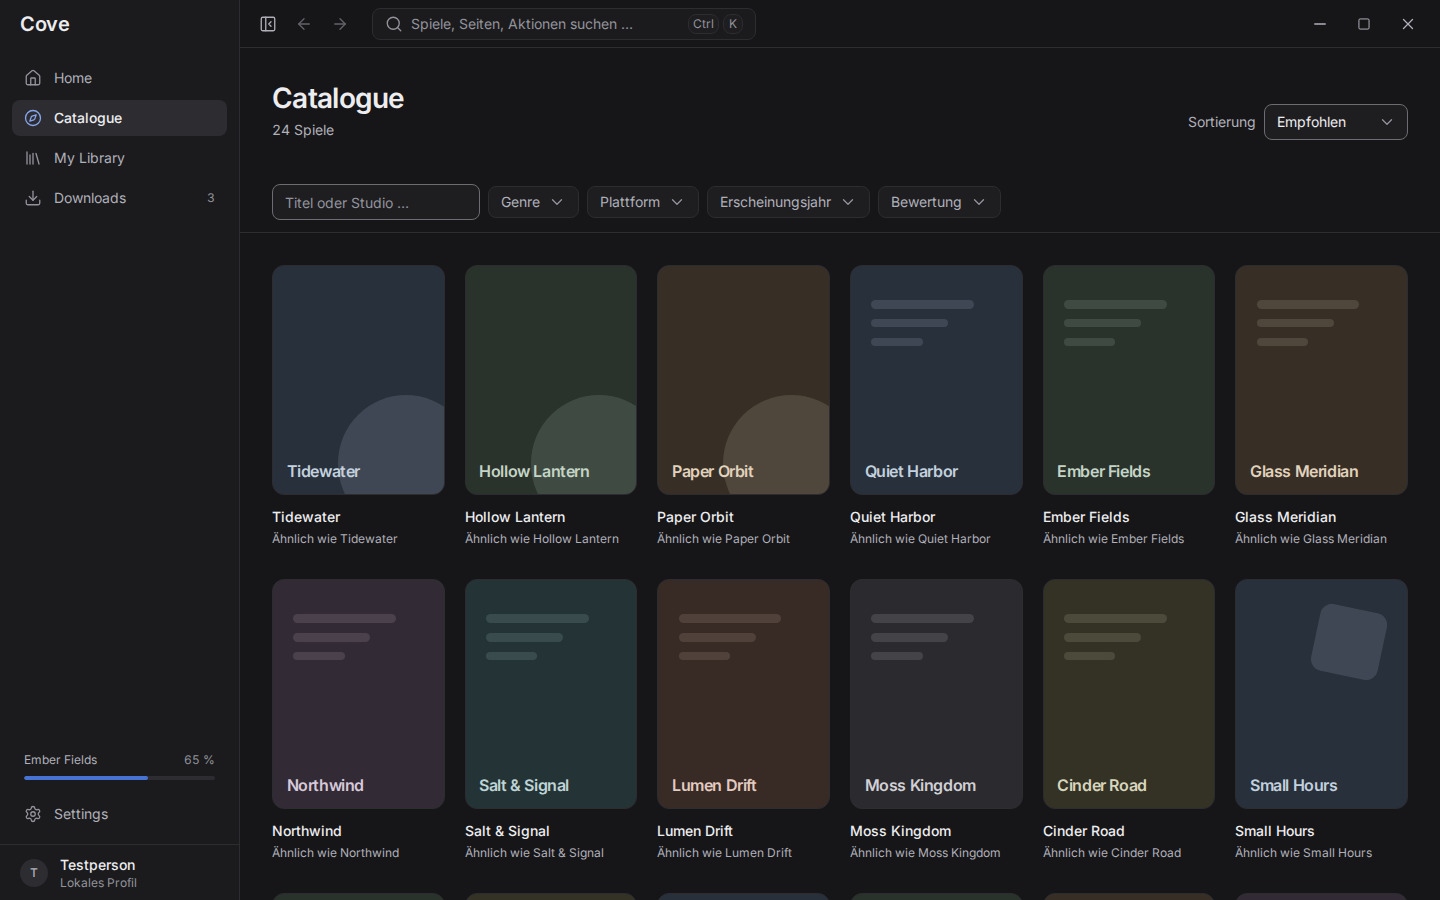
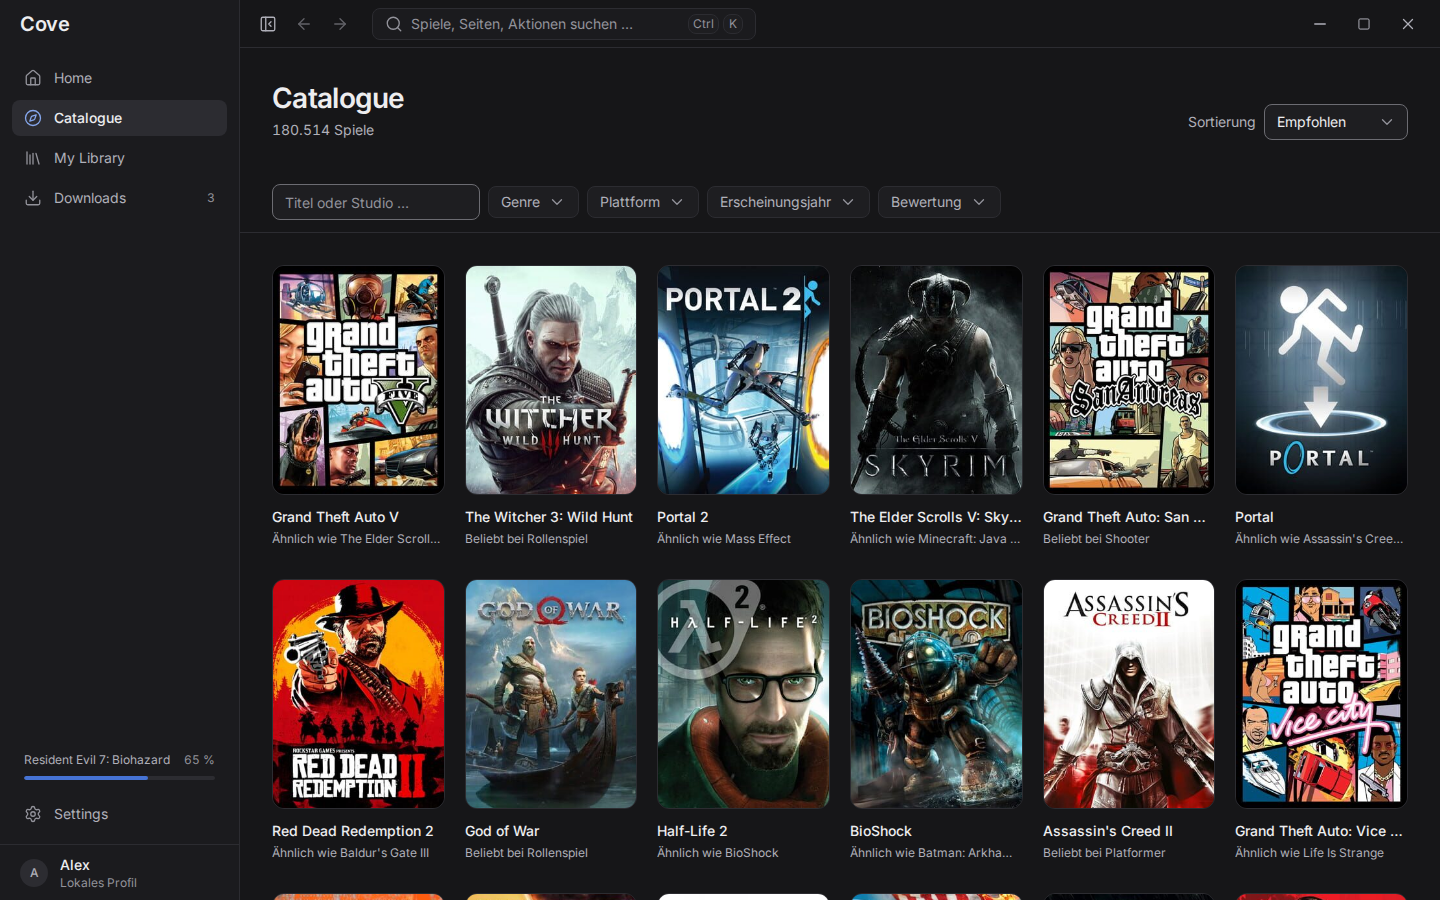
README screenshots with real games; fix cover width for real images
The detail-page cover and download thumbnails were stretched to full width
whenever a real image loaded (GameCover always added w-full to <img>).

Claude-Session: https://claude.ai/code/session_0196WT1rnmQuyssi7v5ZkskX

diff --git a/apps/desktop/src/test/e2e.ts b/apps/desktop/src/test/e2e.ts
@@ -8,7 +8,8 @@
  *
  * URL parameters: `?games=2500` seeds a large library, `?theme=dark` forces dark mode.
  */
-import type { CoveEvents, DownloadItem, Genre, LibraryItem, StoreSource } from "@cove/shared";
+import type { CoveEvents, DownloadItem, Game, Genre, LibraryItem, Recommendation, StoreSource } from "@cove/shared";
+import { GENRE_LABELS } from "../lib/labels.ts";
 import { usePreferences } from "../stores/preferences.ts";
 import { emitCoreEvent, fakeDownload, fakeGame, fakeItem, installFakeCore, FAKE_CATALOG } from "./fakeCore.ts";
 
@@ -47,11 +48,64 @@ function demoItem(index: number): LibraryItem {
   return item;
 }
 
+/**
+ * Real catalogue data for the README screenshots (`e2e/screenshots.e2e.ts` fetches it
+ * from the Cove proxy and injects it as `window.__coveDemo`). Without it the tests use
+ * the invented titles above, so they never depend on the network.
+ */
+interface Demo {
+  library: Game[];
+  catalog: Game[];
+  total: number;
+}
+const demo = (window as unknown as { __coveDemo?: Demo }).__coveDemo;
+
+/** Deterministic pseudo-random number 0..1 per game and purpose. */
+function rand(id: string, salt: number): number {
+  let h = salt * 7919;
+  for (let i = 0; i < id.length; i += 1) h = (h * 31 + id.charCodeAt(i)) >>> 0;
+  return (h % 10_000) / 10_000;
+}
+
+function realItem(game: Game, index: number): LibraryItem {
+  const sources: StoreSource[] = ["steam", "steam", "gog", "epic", "steam", "manual"];
+  const source = sources[index % sources.length] ?? "steam";
+  const installed = index < 6 || rand(game.id, 1) > 0.45;
+  const total = Math.round(rand(game.id, 2) ** 2 * 9000) + 30;
+  const achievements = rand(game.id, 3) > 0.3 ? Math.round(20 + rand(game.id, 4) * 60) : 0;
+  return {
+    game,
+    entry: {
+      ...fakeItem(game.id, game.title).entry,
+      source,
+      storeGameId: source === "manual" ? null : String(100_000 + index),
+      installed,
+      installPath: installed ? `/home/alex/Games/${game.title}` : null,
+      executablePath: installed || source !== "manual" ? `/home/alex/Games/${game.title}/start` : null,
+      installSizeBytes: installed ? Math.round((4 + rand(game.id, 5) * 90) * 1024 ** 3) : null,
+      favorite: index % 5 === 1,
+      playtimeMinutes: total,
+      lastPlayedAt: new Date(Date.UTC(2026, 10, 4, 19) - index ** 1.6 * 3_600_000 * 9).toISOString(),
+      achievements: { unlocked: Math.round(achievements * rand(game.id, 6)), total: achievements },
+      catalogId: game.id,
+      matchStatus: "matched",
+    },
+  };
+}
+
 const params = new URLSearchParams(window.location.search);
 const count = Number(params.get("games") ?? TITLES.length);
-const core = installFakeCore(Array.from({ length: count }, (_, i) => demoItem(i)));
+const core = installFakeCore(demo ? demo.library.map(realItem) : Array.from({ length: count }, (_, i) => demoItem(i)));
 core.coveAchievements = core.coveAchievements.map((a, i) => ({ ...a, unlockedAt: i === 0 ? "2026-11-02T18:00:00Z" : a.unlockedAt }));
-FAKE_CATALOG.push(...Array.from({ length: 21 }, (_, i) => ({ ...demoItem(i + 3).game, id: `igdb-${String(i + 10)}` })));
+if (demo) {
+  FAKE_CATALOG.splice(0, FAKE_CATALOG.length, ...demo.catalog);
+  const games = (store: StoreSource) => core.library.filter((i) => i.entry.source === store).length;
+  const synced = "2026-11-04T18:42:00Z";
+  for (const store of ["steam", "gog", "epic"] as const) {
+    Object.assign(core.accounts[store], { status: "connected", connected: true, accountName: "alex", gameCount: games(store), lastSyncedAt: synced });
+  }
+}
+else FAKE_CATALOG.push(...Array.from({ length: 21 }, (_, i) => ({ ...demoItem(i + 3).game, id: `igdb-${String(i + 10)}` })));
 
 const theme = params.get("theme");
 if (theme === "dark" || theme === "light") {
@@ -110,7 +164,63 @@ function simulateDownload(item: DownloadItem): void {
   }, 250);
 }
 
+/** Answers that make the screenshots look like a real profile (demo mode only). */
+function demoAnswer(command: string, args: Record<string, unknown> | undefined): { value: unknown } | null {
+  if (!demo) return null;
+  const owned = new Set(core.library.map((i) => i.game.id));
+  const fresh = demo.catalog.filter((g) => !owned.has(g.id));
+  const favourite = [...core.library].sort((a, b) => b.entry.playtimeMinutes - a.entry.playtimeMinutes)[0];
+  const limit = Number(args?.limit ?? 12);
+  switch (command) {
+    case "system_profile":
+      return { value: { id: "local", displayName: "Alex", avatarUrl: null } };
+    case "recommendations_for_user":
+      return {
+        value: fresh.slice(0, limit).map((game, i): Recommendation => {
+          const anchor = core.library[(i * 3) % core.library.length];
+          return {
+            game,
+            score: 1 - i / 20,
+            reason: i % 2 === 0 && anchor ? `Ähnlich wie ${anchor.game.title}` : `Weil du gern ${GENRE_LABELS[game.genres[0] ?? "adventure"]} spielst`,
+          };
+        }),
+      };
+    case "recommendations_discover":
+      return {
+        value: fresh.slice(limit, limit * 2).map((game, i): Recommendation => ({ game, score: 0.5 - i / 40, reason: `Neu für dich: ${GENRE_LABELS[game.genres[0] ?? "adventure"]}` })),
+      };
+    case "catalog_browse": {
+      const page = Number(args?.page ?? 0);
+      const items = demo.catalog.slice(page * 24, page * 24 + 24);
+      const reasons = Object.fromEntries(
+        items.map((g, i) => {
+          const anchor = core.library[(i * 5 + 2) % core.library.length] ?? favourite;
+          return [g.id, i % 3 === 1 ? `Beliebt bei ${GENRE_LABELS[g.genres[0] ?? "adventure"]}` : `Ähnlich wie ${anchor?.game.title ?? ""}`];
+        }),
+      );
+      const sort = (args?.sort as string | undefined) ?? "recommended";
+      return {
+        value: { items, page, hasMore: (page + 1) * 24 < demo.catalog.length, total: demo.total, offline: false, reasons: sort === "recommended" ? reasons : {} },
+      };
+    }
+    case "library_playtime": {
+      const gameId = String(args?.gameId);
+      const days = Array.from({ length: 14 }, (_, i) => ({
+        date: new Date(Date.UTC(2026, 9, 22 + i)).toISOString().slice(0, 10),
+        minutes: rand(gameId, 20 + i) > 0.55 ? Math.round(20 + rand(gameId, 40 + i) * 160) : 0,
+      }));
+      const recent = days.reduce((sum, d) => sum + d.minutes, 0);
+      const total = core.library.find((i) => i.game.id === gameId)?.entry.playtimeMinutes ?? recent;
+      return { value: { gameId, totalMinutes: Math.max(total, recent), last14DaysMinutes: recent, sessionCount: 12 + Math.round(rand(gameId, 9) * 80), days } };
+    }
+    default:
+      return null;
+  }
+}
+
 internals.invoke = async (command, args, options) => {
+  const answer = demoAnswer(command, args);
+  if (answer) return structuredClone(answer.value);
   if (command === "game_launch") {
     const gameId = String(args?.gameId);
     const startedAt = new Date().toISOString();

diff --git a/apps/desktop/e2e/screenshots.e2e.ts b/apps/desktop/e2e/screenshots.e2e.ts
@@ -1,49 +1,97 @@
+import type { Game, ProxyPage } from "@cove/shared";
 import { expect, test, type Page } from "@playwright/test";
 import { openCove } from "./app.ts";
 
 /**
- * README screenshots (`docs/screenshots`). Only runs on request:
- * `COVE_SCREENSHOTS=1 npx playwright test screenshots`.
+ * README screenshots (`docs/screenshots`) with real games: titles, covers and
+ * artwork come from the Cove catalogue proxy (IGDB), exactly as the app shows them.
+ * Only runs on request: `COVE_SCREENSHOTS=1 npx playwright test screenshots`.
  */
 test.skip(!process.env.COVE_SCREENSHOTS, "set COVE_SCREENSHOTS=1 to update the README screenshots");
 test.use({ viewport: { width: 1440, height: 900 }, deviceScaleFactor: 1 });
 
 const OUT = "../../docs/screenshots";
+const PROXY = process.env.COVE_CATALOG_PROXY_URL ?? "https://cove-catalog-proxy.bjoernharter-github.workers.dev";
+
+interface Demo {
+  library: Game[];
+  catalog: Game[];
+  total: number;
+}
+
+async function browse(query: string): Promise<ProxyPage> {
+  const response = await fetch(`${PROXY}/v1/browse?${query}`);
+  if (!response.ok) throw new Error(`Katalog nicht erreichbar: ${String(response.status)}`);
+  return (await response.json()) as ProxyPage;
+}
+
+/** A plausible library (well-known games with full artwork) and a catalogue to browse. */
+async function loadDemo(): Promise<Demo> {
+  const pages = await Promise.all([0, 1, 2, 3].map((page) => browse(`sort=popular&page=${String(page)}`)));
+  const seen = new Set<string>();
+  const games = pages
+    .flatMap((p) => p.items)
+    .filter((g) => g.artwork.cover.url && g.artwork.header.url && !seen.has(g.id) && seen.add(g.id));
+  const library = games.filter((_, i) => i % 3 !== 2).slice(0, 36);
+  return { library, catalog: games, total: pages[0]?.total ?? games.length };
+}
 
 async function settle(page: Page): Promise<void> {
   await expect(page.locator("[aria-busy=true]")).toHaveCount(0);
+  // Wait until every visible cover image has loaded.
+  await page.waitForFunction(() => [...document.images].every((img) => img.complete));
   await page.waitForTimeout(400);
 }
 
-async function seedDownloads(page: Page): Promise<void> {
-  await page.evaluate(() => {
-    interface Cove {
-      core: { downloads: unknown[] };
-      emit: (event: string, payload: unknown) => void;
-      fakeDownload: (id: string, title: string, overrides: Record<string, unknown>) => unknown;
-    }
-    const cove = (window as unknown as { __cove: Cove }).__cove;
-    const mb = 1024 * 1024;
-    cove.core.downloads.push(
-      cove.fakeDownload("a", "Ember Fields", { status: "downloading", totalBytes: 2100 * mb, downloadedBytes: 1365 * mb, bytesPerSecond: 18 * mb, queuePosition: 0, origin: "itch" }),
-      cove.fakeDownload("b", "Glass Meridian", { status: "queued", totalBytes: 840 * mb, queuePosition: 1, origin: "direct" }),
-      cove.fakeDownload("c", "Northwind", { status: "handedOff", queuePosition: 2, origin: "gog" }),
-      cove.fakeDownload("d", "Small Hours", { status: "completed", totalBytes: 512 * mb, downloadedBytes: 512 * mb, queuePosition: null, checksumVerified: true, finishedAt: "2026-11-04T09:12:00Z", origin: "direct" }),
-    );
-    cove.emit("downloads-changed", structuredClone(cove.core.downloads));
-  });
+async function seedDownloads(page: Page, demo: Demo): Promise<void> {
+  const owned = new Set(demo.library.map((g) => g.id));
+  const [active, queued, handedOff, done] = demo.catalog.filter((g) => !owned.has(g.id)).slice(-4);
+  await page.evaluate(
+    (games) => {
+      interface Cove {
+        core: { downloads: { game: unknown }[] };
+        emit: (event: string, payload: unknown) => void;
+        fakeDownload: (id: string, title: string, overrides: Record<string, unknown>) => { game: unknown };
+      }
+      const cove = (window as unknown as { __cove: Cove }).__cove;
+      const mb = 1024 * 1024;
+      const specs: [string, Record<string, unknown>][] = [
+        ["a", { status: "downloading", totalBytes: 2100 * mb, downloadedBytes: 1365 * mb, bytesPerSecond: 18 * mb, queuePosition: 0, origin: "itch" }],
+        ["b", { status: "queued", totalBytes: 840 * mb, queuePosition: 1, origin: "direct" }],
+        ["c", { status: "handedOff", queuePosition: 2, origin: "gog" }],
+        ["d", { status: "completed", totalBytes: 512 * mb, downloadedBytes: 512 * mb, queuePosition: null, checksumVerified: true, finishedAt: "2026-11-04T09:12:00Z", origin: "direct" }],
+      ];
+      specs.forEach(([id, overrides], i) => {
+        const game = games[i] as { title: string } | undefined;
+        if (!game) return;
+        const item = cove.fakeDownload(id, game.title, overrides);
+        item.game = game;
+        cove.core.downloads.push(item);
+      });
+      cove.emit("downloads-changed", structuredClone(cove.core.downloads));
+    },
+    [active, queued, handedOff, done],
+  );
 }
+
+let demo: Demo;
+test.beforeAll(async () => {
+  demo = await loadDemo();
+});
 
 for (const theme of ["light", "dark"] as const) {
   test(`screenshots (${theme})`, async ({ page }) => {
-    await openCove(page, "/", { theme, games: "60" });
-    await seedDownloads(page);
+    await page.addInitScript((data) => {
+      (window as unknown as { __coveDemo: unknown }).__coveDemo = data;
+    }, demo);
+    await openCove(page, "/", { theme });
+    await seedDownloads(page, demo);
     await settle(page);
     await page.screenshot({ path: `${OUT}/home-${theme}.png` });
 
     for (const [route, name] of [
       ["/library", "library"],
-      ["/library/game-2", "game"],
+      [`/library/${demo.library[0]?.id ?? ""}`, "game"],
       ["/catalogue", "catalogue"],
       ["/downloads", "downloads"],
       ["/settings/accounts", "settings"],

diff --git a/apps/desktop/src/components/game/GameCover.tsx b/apps/desktop/src/components/game/GameCover.tsx
@@ -54,7 +54,8 @@ export function GameCover({
       <img
         src={url}
         alt={image.alt}
-        className={cx(base, "w-full bg-skeleton object-cover")}
+        // Full width unless the caller sets one (thumbnails, the detail-page cover).
+        className={cx(base, unlessSet(className, ["w-"], "w-full"), "bg-skeleton object-cover")}
         loading="lazy"
         decoding="async"
         onError={() => {

diff --git a/README.md b/README.md
@@ -13,7 +13,7 @@ playtime and achievements. No ads, no social feed, no accounts of its own.
 | ![Catalogue (dark)](docs/screenshots/catalogue-dark.png) | ![Downloads (light)](docs/screenshots/downloads-light.png) |
 
 > Status: early development (0.1). Everything below works; expect rough edges.
-> The screenshots show demo data with Cove's built-in placeholder artwork.
+> The screenshots show the real app with game data from IGDB and an example profile.
 
 ## Features
 
